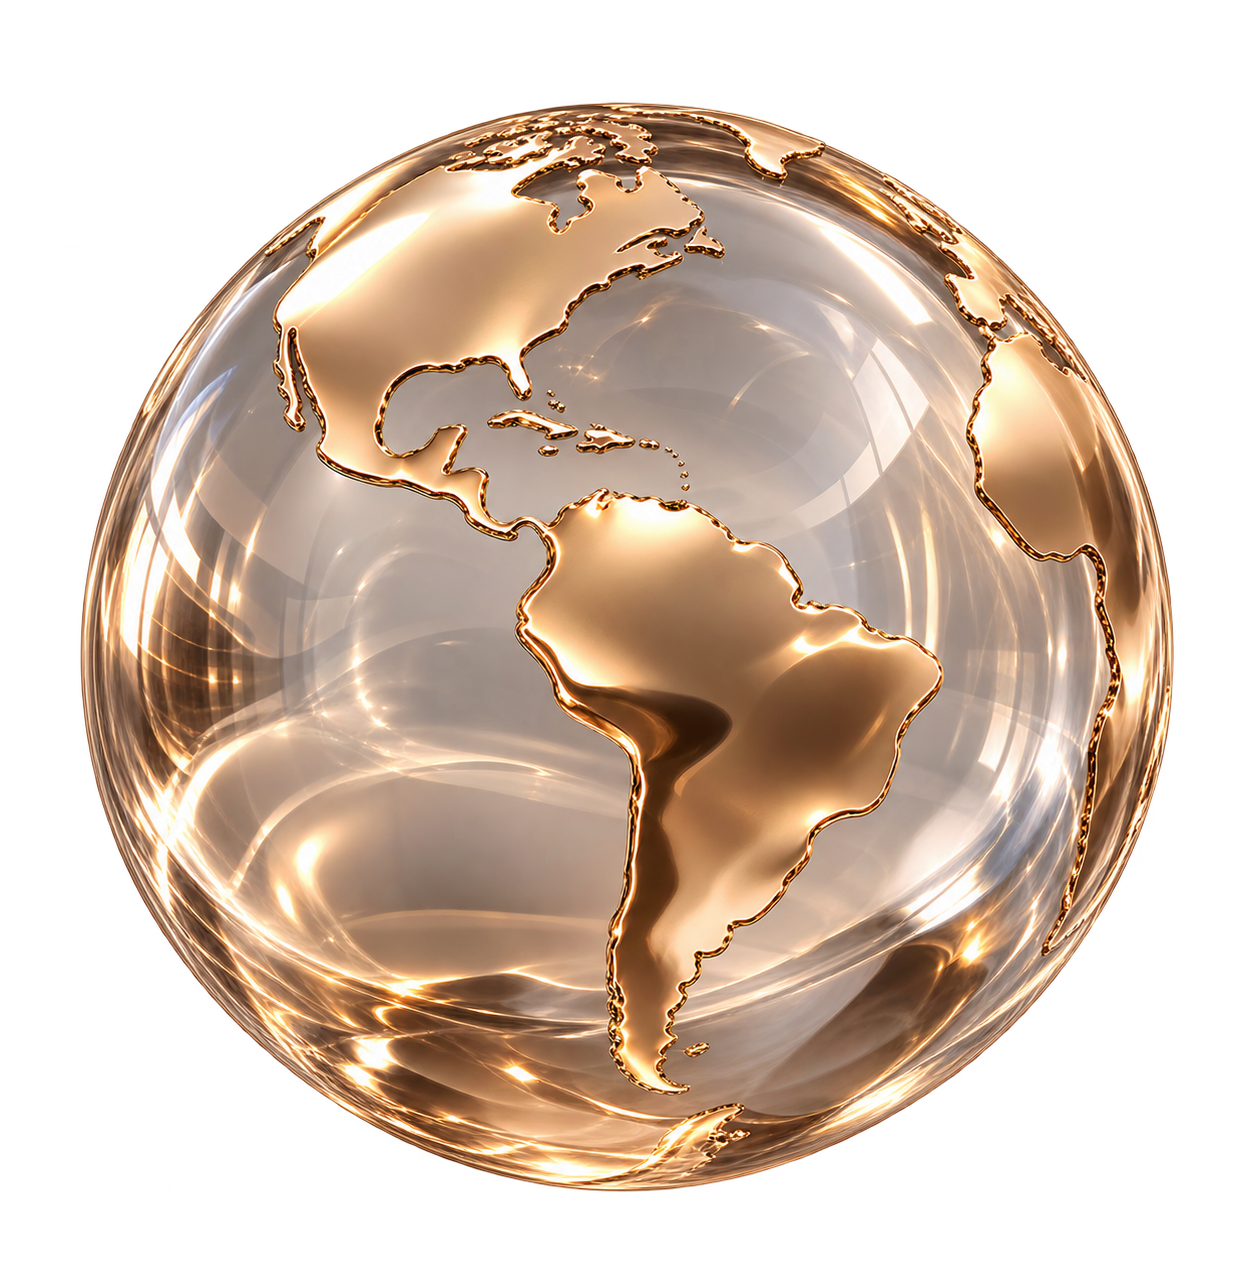
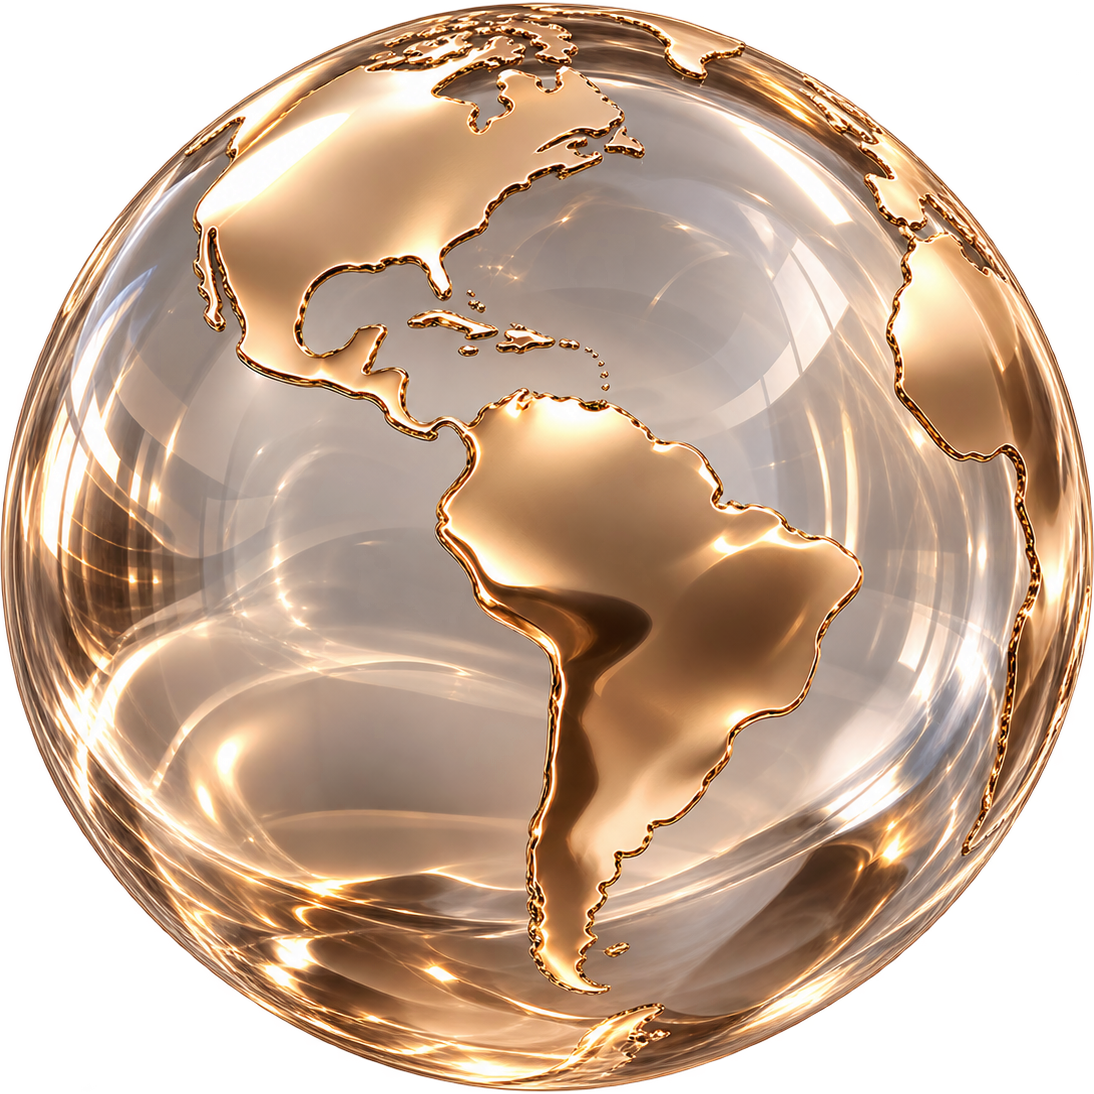
dheeraj

diff --git a/src/components/ShadowRunner.tsx b/src/components/ShadowRunner.tsx
@@ -92,7 +92,7 @@ export default function ShadowRunner() {
 
       // Pelvis vertical flight bob (2 bobs per full stride cycle)
       const flightBob = Math.sin(theta * 2);
-      const hipY = groundY - 33 - Math.max(0, flightBob) * 3.8;
+      const hipY = groundY - 30.5 - Math.max(0, flightBob) * 2.2;
       const hipX = cx;
 
       // Colors: Foreground Obsidian Black & Background Depth Charcoal
@@ -101,24 +101,24 @@ export default function ShadowRunner() {
 
       // Kinematics solver for legs (facing left: forward is -X, backward is +X)
       const solveLeg = (phase: number) => {
-        const thighLength = 14;
-        const shinLength = 14.5;
+        const thighLength = 15;
+        const shinLength = 15;
 
         // Thigh swing: swings forward (-X) when phase > 0, back (+X) when phase < 0
-        const thighAngle = -Math.sin(phase) * 0.62;
+        const thighAngle = -Math.sin(phase) * 0.58;
         const kneeX = hipX + Math.sin(thighAngle) * thighLength;
         const kneeY = hipY + Math.cos(thighAngle) * thighLength;
 
         // Knee flexion: bends backward (+X, heel up) during recovery swing
-        const recoveryKick = Math.max(0, Math.cos(phase)) * 1.15;
-        const pushStraight = Math.max(0, -Math.sin(phase)) * 0.25;
-        const kneeFlexion = thighAngle + 0.18 + recoveryKick - pushStraight;
+        const recoveryKick = Math.max(0, Math.cos(phase)) * 1.1;
+        const pushStraight = Math.max(0, -Math.sin(phase)) * 0.22;
+        const kneeFlexion = thighAngle + 0.15 + recoveryKick - pushStraight;
 
         const ankleX = kneeX + Math.sin(kneeFlexion) * shinLength;
         const ankleY = kneeY + Math.cos(kneeFlexion) * shinLength;
 
         // Ankle toe angle
-        const toeAngle = Math.PI - 0.25 - (recoveryKick * 0.5);
+        const toeAngle = Math.PI - 0.22 - (recoveryKick * 0.45);
 
         return { kneeX, kneeY, ankleX, ankleY, toeAngle };
       };

diff --git a/src/app/page.tsx b/src/app/page.tsx
@@ -247,7 +247,7 @@ export default function Home() {
         />
 
         {/* The Black Shadow Runner (Running atop the crest of the globe facing left against the rotation) */}
-        <div className="absolute left-1/2 top-[7.5%] -translate-x-1/2 -translate-y-[90%] z-20 flex flex-col items-center">
+        <div className="absolute left-1/2 top-0 -translate-x-1/2 -translate-y-[89%] z-20 flex flex-col items-center">
           <ShadowRunner />
         </div>
       </div>
